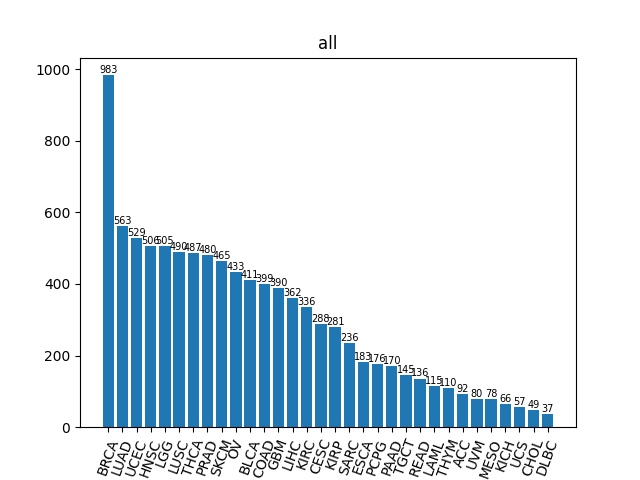
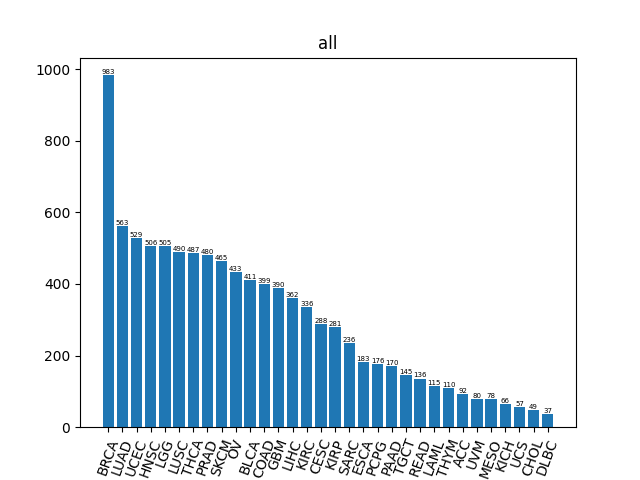
rearrange files

diff --git a/src/classification/prepared_data.py b/src/classification/prepared_data.py
@@ -25,7 +25,7 @@ def plt_figure(data, title):
     plt.title(title)
     plt.bar(x=data.keys(), height=data.values())
     for a, b in zip(data.keys(), data.values()):
-        plt.text(a, b + 0.05, '%.0f' % b, ha='center', va='bottom', fontsize=7)
+        plt.text(a, b + 0.05, '%.0f' % b, ha='center', va='bottom', fontsize=5)
 
     plt.xticks(rotation=70)
     plt.savefig(os.path.join(figure_data, '%s.png' % title))

diff --git a/plan.md b/plan.md
@@ -1,3 +1,3 @@
 version https://git-lfs.github.com/spec/v1
-oid sha256:8d32527344d9e2263d62dedbdc6b9d5da8023a743f515b253eff8da2dcaa89d6
-size 6652
+oid sha256:1ffde74f85153e6b8bab320a2449238536278728e8fdf6cdb3f2247943e5c87c
+size 6693
